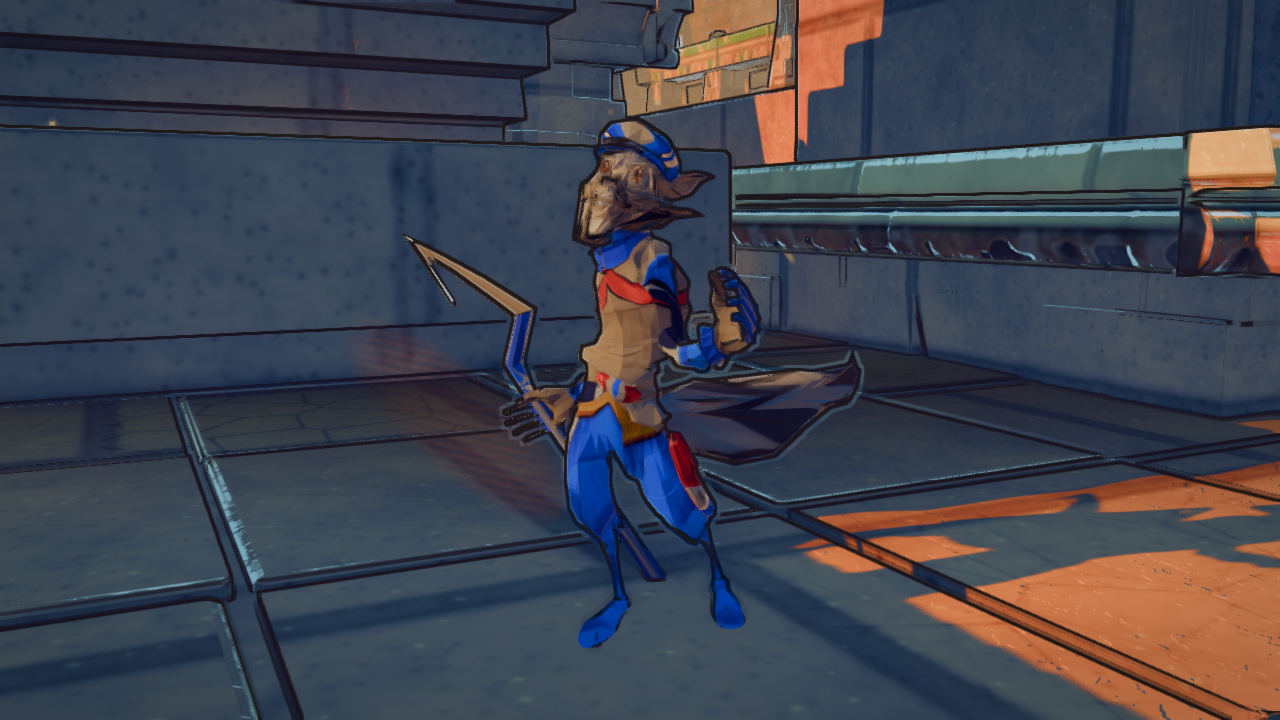
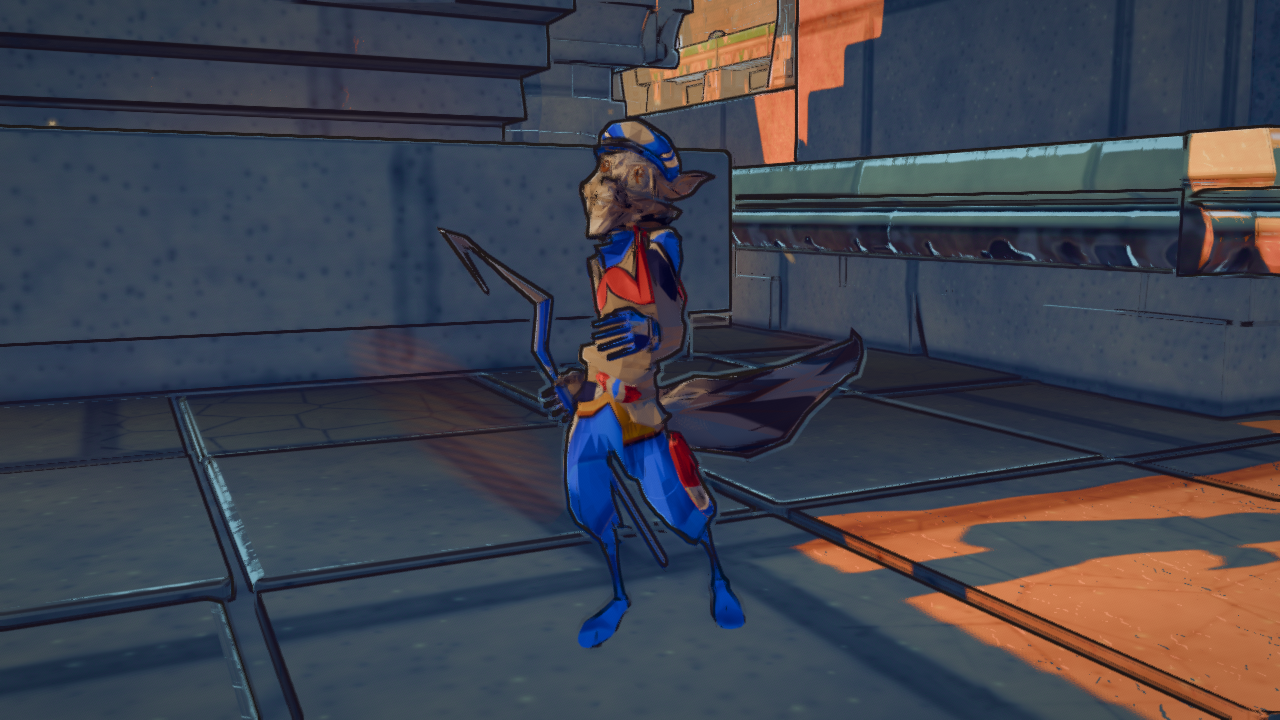
texture orientation: flipY back to three's default (the atlas was sampling inverted)
I had set flipY=false with a comment claiming "OBJ UVs are already bottom-up".
That is backwards. glTF places UV (0,0) at the image's TOP-left and so wants
flipY false; OBJ places it at the BOTTOM-left, which is exactly what three's
default of true already assumes.

Visible in the rebind capture: the torso rendered TAN and the legs BLUE, i.e.
the atlas's blue tunic was landing on the trousers and vice versa, with the
head's markings scrambled to match.

Sweeps the rebind frames too. They confirm the T-pose fix worked on the
geometry - the splay is gone and the figure stands upright - and a per-region
check of the rebound mesh backs that up: tail vertices land along our tail
bone chain, head vertices stay inside x +-0.233 / y 1.39-1.80, and the 90
vertices that bind to the right forearm and hand are the CANE, correctly
attached to the hand holding it. What remains after this commit is
animation-time skin quality, not bind-pose placement.

Claude-Session: https://claude.ai/code/session_01PXtatFVa9WWnKz5zHerfeC

diff --git a/src/player/SlyModelDL.js b/src/player/SlyModelDL.js
@@ -372,7 +372,12 @@ export class SlyModel {
       if (url) {
         map = texLoader.load(url);
         map.colorSpace = THREE.SRGBColorSpace;
-        map.flipY = false;                 // OBJ UVs are already bottom-up
+        /* flipY stays at three's default of TRUE. It was set false here on the reasoning that
+           "OBJ UVs are already bottom-up", which is backwards: glTF puts UV (0,0) at the image's
+           TOP-left and therefore wants flipY false, while OBJ puts it at the BOTTOM-left, which
+           is what the default already assumes. With it false the atlas sampled inverted — the
+           blue tunic landed on the legs and the tan trousers on the torso, and every face marking
+           came out scrambled. */
         map.anisotropy = 4;
       }
       return shading?.make
